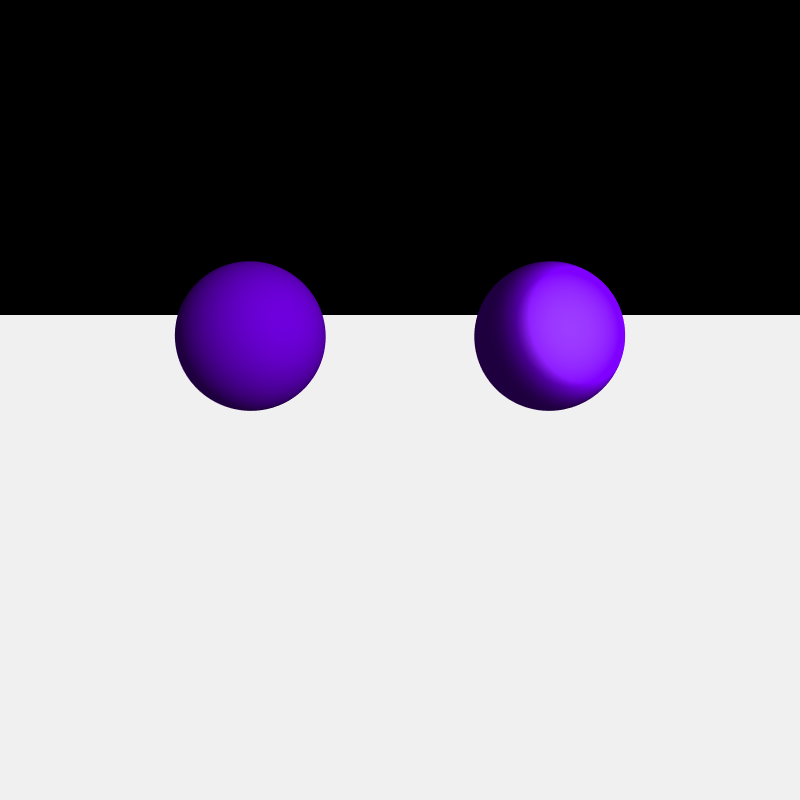
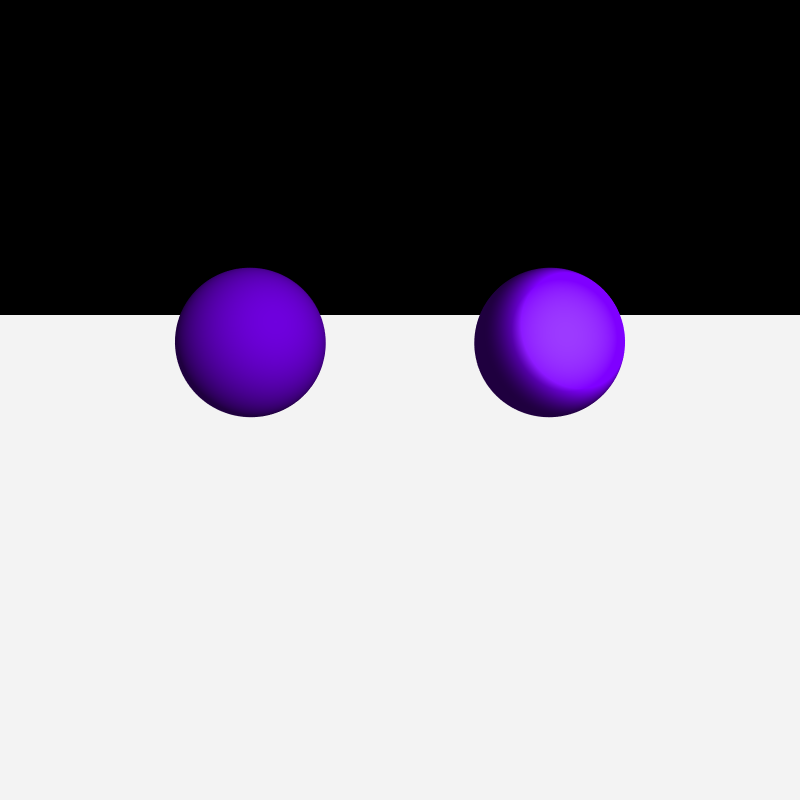
Added Shading to the ray tracer. Sample images shows the difference between no shadows and shadows.

diff --git a/wxraytracer/wxRaytracer/raytracer/GeometricObjects/GeometricObject.cpp b/wxraytracer/wxRaytracer/raytracer/GeometricObjects/GeometricObject.cpp
@@ -1,16 +1,16 @@
 #include "GeometricObject.h"
 
 
-GeometricObject::GeometricObject(void) : color(black) {}
+GeometricObject::GeometricObject(void) : material_ptr(NULL), shadows(true) {}
 
-GeometricObject::GeometricObject(const GeometricObject& object) : color(object.color) {}
+GeometricObject::GeometricObject(const GeometricObject& object) : material_ptr(object.material_ptr), shadows(object.shadows) {}
 
 GeometricObject& GeometricObject::operator= (const GeometricObject& rhs) {
 
 	if(this == &rhs)
 		return *this;
 
-	color = rhs.color;
+	material_ptr = rhs.material_ptr;
 
 	return *this;
 }
@@ -24,4 +24,11 @@ void GeometricObject::set_material(Material* m){
 	material_ptr = m;
 }
 
-GeometricObject::~GeometricObject(void){}
+GeometricObject::~GeometricObject(void){
+
+	if(material_ptr){
+
+		delete material_ptr;
+		material_ptr = NULL;
+	}
+}

diff --git a/wxraytracer/wxRaytracer/raytracer/GeometricObjects/Sphere.cpp b/wxraytracer/wxRaytracer/raytracer/GeometricObjects/Sphere.cpp
@@ -73,3 +73,42 @@ bool Sphere::hit( const Ray& ray, double& tmin, ShadeRec& sr) const{
 
 	return false;
 }
+
+bool Sphere::shadow_hit(const Ray& ray, float& tmin) const{
+
+	if(!shadows)
+		return false;
+
+	//Similar to hit function but without the shading
+	Vector3D temp = ray.o - center;
+	double a = ray.d * ray.d;
+	double b = 2.0 * temp * ray.d;
+	double c = (temp * temp) - (radius * radius);
+	double disc = b * b - 4.0 * a * c;
+
+	if (disc < 0.0)
+		return false;
+
+	else{
+		double e = sqrt(disc);
+		double denom = 2.0 * a;
+		double t = (-b - e) / denom; // smaller root
+		
+		if (t > kEpsilon){
+
+			tmin = t;
+			return true;
+		}
+
+		t = (-b + e) / denom; // larger root
+
+		if (t > kEpsilon){
+			tmin = t;
+			return true;
+
+		}
+
+	}
+
+	return false;
+}

diff --git a/wxraytracer/wxRaytracer/raytracer/GeometricObjects/GeometricObject.h b/wxraytracer/wxRaytracer/raytracer/GeometricObjects/GeometricObject.h
@@ -35,38 +35,20 @@ public:
 
 	Material* get_material(void) const;
 
-	void set_color(const RGBColor& c);
-
-	void set_color(const float r, const float g, const float b);
-
-	RGBColor get_color(void);
+	virtual bool shadow_hit(const Ray& ray, float& tmin) const = 0;
 
 protected:
 
 	mutable Material* material_ptr;
 
 	RGBColor color;
+	bool shadows;
 
 	//assignment operator
 	GeometricObject& operator= (const GeometricObject& rhs);
 };
 
 
-inline void GeometricObject::set_color(const RGBColor& c){
-	color = c;
-}
-
-inline void GeometricObject::set_color(const float r, const float g, const float b){
-
-	color.r =r;
-	color.g = g;
-	color.b = b;
-}
-
-inline RGBColor GeometricObject::get_color(void){
-
-	return color;
-}
 
 #endif
 

diff --git a/wxraytracer/wxRaytracer/raytracer/Materials/Matte.cpp b/wxraytracer/wxRaytracer/raytracer/Materials/Matte.cpp
@@ -23,7 +23,6 @@ Matte& Matte::operator=(const Matte& rhs){
 }
 
 RGBColor Matte::shade(ShadeRec& sr){
-
 	Vector3D	wo = -sr.ray.d;
 	RGBColor	L  = ambient_brdf->rho(sr, wo) * sr.w.ambient_ptr->L(sr);
 	int			numLights = sr.w.lights.size();
@@ -35,9 +34,20 @@ RGBColor Matte::shade(ShadeRec& sr){
 
 		if (ndotwi > 0.0){
 
-			L+= diffuse_brdf->f(sr, wo, wi) * sr.w.lights[j]->L(sr) * ndotwi;
+			bool in_shadow = false;
+
+			if (sr.w.lights[j]->casts_shadows()){
+
+				Ray shadowRay(sr.hit_point, wi);
+				in_shadow = sr.w.lights[j]->in_shadow(shadowRay, sr);
+			}
+
+			if(!in_shadow)
+				L+= diffuse_brdf->f(sr, wo, wi) * sr.w.lights[j]->L(sr) * ndotwi;
+
 		}
 	}
+
 
 	return L;
 }

diff --git a/wxraytracer/wxRaytracer/raytracer/Utilities/ShadeRec.cpp b/wxraytracer/wxRaytracer/raytracer/Utilities/ShadeRec.cpp
@@ -4,9 +4,8 @@
 
 
 ShadeRec::ShadeRec(World& wr): hit_an_object (false), material_ptr(NULL),
-	hit_point(), local_hit_point(), t(0.0), normal(), ray(), depth(0), dir(), color(black), w(wr){}
+	hit_point(), local_hit_point(), t(0.0), normal(), ray(), depth(0), dir(), w(wr){}
 
 ShadeRec::ShadeRec(const ShadeRec& sr) : hit_an_object (sr.hit_an_object), material_ptr(sr.material_ptr),
 	hit_point(sr.hit_point), local_hit_point(sr.local_hit_point), 
-	t(sr.t), normal(sr.normal), ray(sr.ray), depth(sr.depth), dir(sr.dir), 
-	color(sr.color), w(sr.w){}
+	t(sr.t), normal(sr.normal), ray(sr.ray), depth(sr.depth), dir(sr.dir), w(sr.w){}

diff --git a/wxraytracer/wxRaytracer/raytracer/Lights/PointLight.cpp b/wxraytracer/wxRaytracer/raytracer/Lights/PointLight.cpp
@@ -1,5 +1,5 @@
 #include "PointLight.h"
-
+#include "World.h"
 
 PointLight::PointLight(void) : Light(), ls(1.0), color(1.0), location(0.0) {}
 
@@ -20,6 +20,20 @@ PointLight& PointLight::operator=(const PointLight& rhs){
 
 	return *this;
 
+}
+
+bool PointLight::in_shadow(const Ray& ray, const ShadeRec& sr) const{
+
+	float t;
+	int num_objects = sr.w.objects.size();
+	float d = location.distance(ray.o);
+
+	for(int j = 0; j < num_objects; j++){
+
+		if(sr.w.objects[j]->shadow_hit(ray, t) && t < d)
+			return true;
+	}
+	return false;
 }
 
 Vector3D PointLight::get_direction(ShadeRec& sr){

diff --git a/wxraytracer/wxRaytracer/raytracer/Materials/Phong.cpp b/wxraytracer/wxRaytracer/raytracer/Materials/Phong.cpp
@@ -36,8 +36,20 @@ RGBColor Phong::shade(ShadeRec& sr){
 
 		if (ndotwi > 0.0){
 
-			L+= (diffuse_brdf->f(sr, wo, wi) * sr.w.lights[j]->L(sr) * ndotwi
-				+ specular_brdf->f(sr, wo, wi)) * sr.w.lights[j]->L(sr) * ndotwi; 
+			bool in_shadow = false;
+
+			if (sr.w.lights[j]->casts_shadows()){
+
+				Ray shadowRay(sr.hit_point, wi);
+				in_shadow = sr.w.lights[j]->in_shadow(shadowRay, sr);
+			}
+
+			if(!in_shadow){
+
+				L+= (diffuse_brdf->f(sr, wo, wi) * sr.w.lights[j]->L(sr) * ndotwi
+					+ specular_brdf->f(sr, wo, wi)) * sr.w.lights[j]->L(sr) * ndotwi; 
+
+			}
 		}
 	}
 

diff --git a/wxraytracer/wxRaytracer/raytracer/Lights/Light.h b/wxraytracer/wxRaytracer/raytracer/Lights/Light.h
@@ -23,6 +23,10 @@ public:
 
 	void set_shadows(const bool s);
 
+	bool casts_shadows(void) const;
+
+	virtual bool in_shadow(const Ray& ray, const ShadeRec& sr) const;
+
 	virtual ~Light(void);
 
 protected:
@@ -31,5 +35,11 @@ protected:
 
 
 };
+inline void Light::set_shadows(const bool s){
+	shadows = s;
+}
 
+inline bool Light::casts_shadows(void) const{
+	return shadows;
+}
 #endif

diff --git a/wxraytracer/wxRaytracer/raytracer/Tracers/MultipleObjects.cpp b/wxraytracer/wxRaytracer/raytracer/Tracers/MultipleObjects.cpp
@@ -10,10 +10,13 @@ MultipleObjects::~MultipleObjects(void) {}
 RGBColor MultipleObjects::trace_ray(const Ray& ray) const {
 	//ShadeRec sr(world_ptr->hit_bare_bones_objects(ray)); // sr is copy constructed
 	ShadeRec sr(world_ptr->hit_objects(ray)); 
-
+	/*
 	if (sr.hit_an_object)   
 		return (sr.color);   
 	else
 		return (world_ptr->background_color);
+
+	*/
+	return black;
 }
 

diff --git a/wxraytracer/wxRaytracer/raytracer/Utilities/ShadeRec.h b/wxraytracer/wxRaytracer/raytracer/Utilities/ShadeRec.h
@@ -20,7 +20,6 @@ public:
 	Point3D		hit_point;			//world coordinates of hitpoint
 	Point3D		local_hit_point;	//for attaching textures to objects
 	Normal		normal;				//normal at the hit point
-	RGBColor	color;				//apparently only used for chapter 3 of the book
 	Ray			ray;				// for specular hightlights
 	int			depth;				// recursion depth
 	double		t;					// ray parameter

diff --git a/wxraytracer/wxRaytracer/raytracer/Lights/PointLight.h b/wxraytracer/wxRaytracer/raytracer/Lights/PointLight.h
@@ -18,6 +18,8 @@ public:
 
 	virtual RGBColor L(ShadeRec& sr);
 
+	bool in_shadow(const Ray& ray, const ShadeRec& sr) const;
+
 	void set_color(const float r, const float g, const float b);
 
 	void set_color(const RGBColor& c);
@@ -36,7 +38,7 @@ private:
 
 	float ls;
 	RGBColor color;
-	Vector3D location;
+	Point3D location;
 
 };
 

diff --git a/wxraytracer/wxRaytracer/raytracer/GeometricObjects/Plane.cpp b/wxraytracer/wxRaytracer/raytracer/GeometricObjects/Plane.cpp
@@ -46,3 +46,19 @@ bool Plane::hit(const Ray& ray, double& tmin, ShadeRec& sr) const{
 
 	return false;
 }
+
+bool Plane::shadow_hit(const Ray& ray, float& tmin) const{
+
+	if( !shadows)
+		return false;
+
+	float t = (a - ray.o) * n / (ray.d * n);
+
+	if (t > kEpsilon){
+
+		tmin = t;
+		return true;
+	}
+
+	return false;
+}
